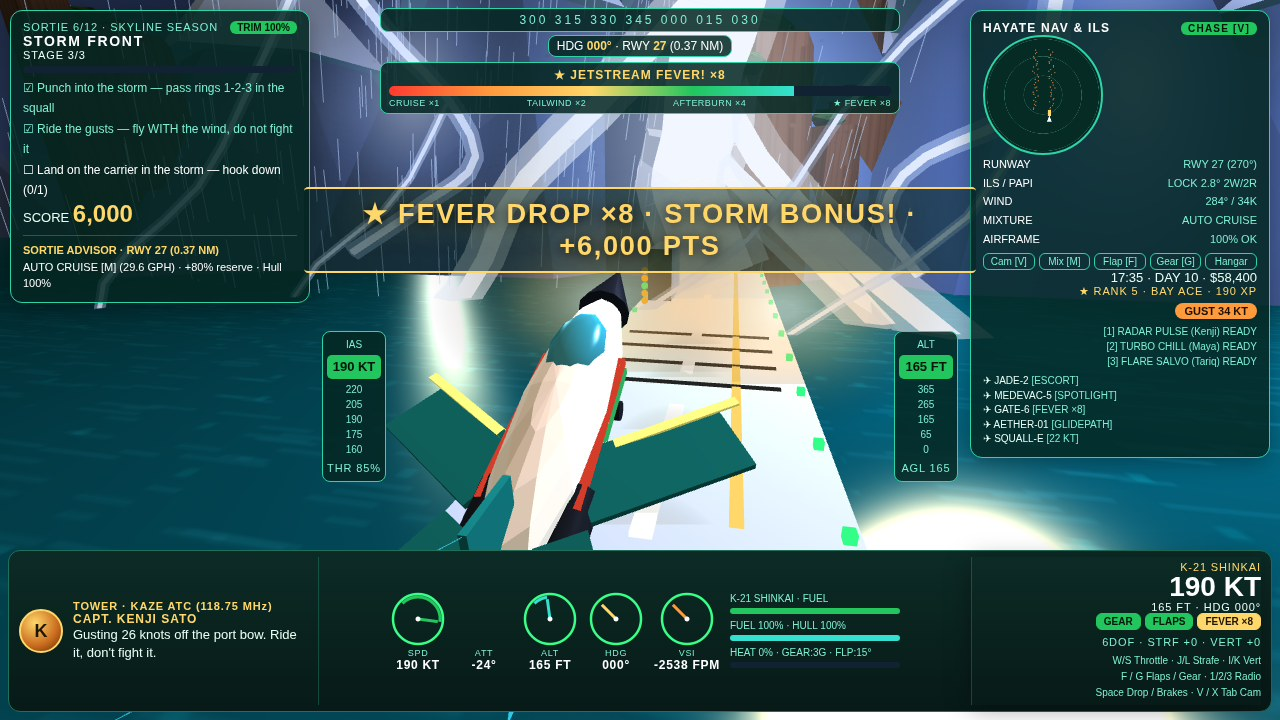
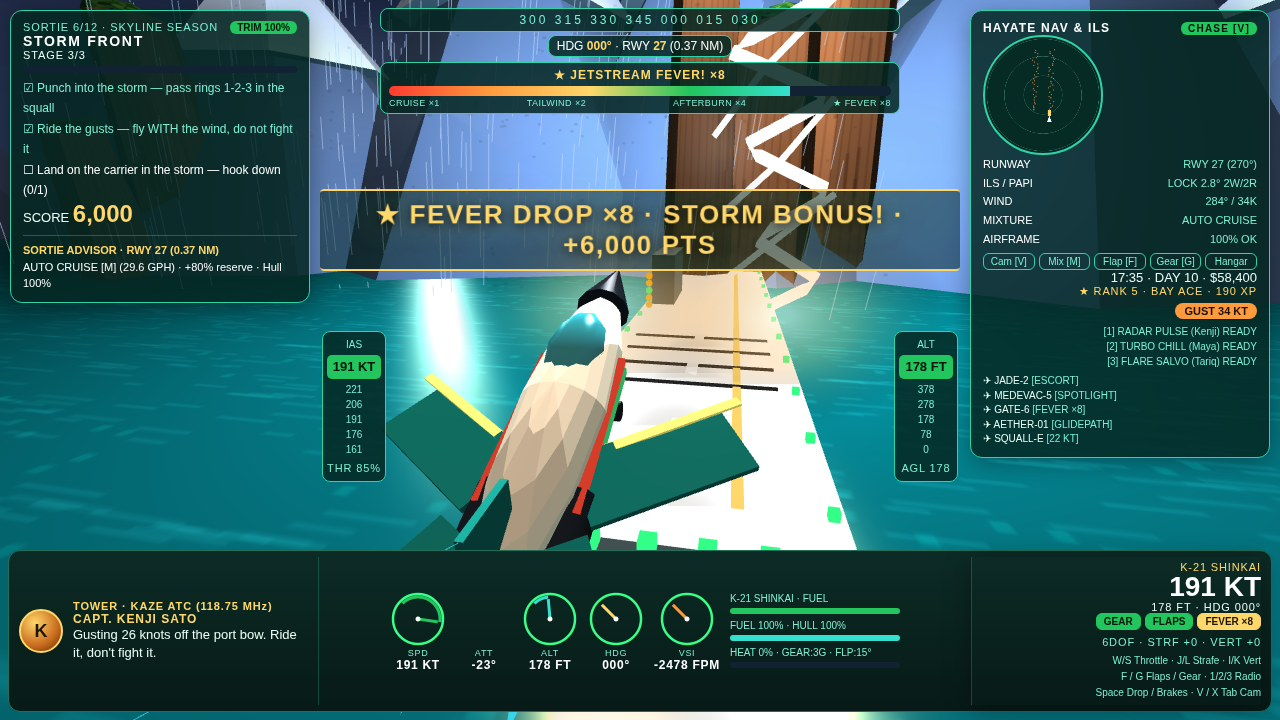
Sharpen hero lightning: thin crisp white zigzag bolt, single bolt, no blob
Hero bolt rebuilt to match the CALDERA storm-landing reference (thin bright-white
line, hard edges, sharp branching zigzag, almost no glow):
- core r18 -> r3, halo tube REMOVED, glow 260x340 @0.45 -> 64x90 @0.16
- Catmull-Rom smoothing replaced with sharp-cornered CurvePath of LineCurve3
  (smoothing is what rounded the zigzag into a soft blob)
- 8 segments with sawtooth walk alternating +/-(30-48), clamped to +/-65 of the
  centreline, so several sharp kinks land in the window between the Fever bar
  and the banner; 3 short forks (2 steps) close to the main bolt
- companions removed from the storm staging: they read as a second competing
  bolt; the reference has ONE bolt + forks
- storm shot framing: 4000ms wait keeps the dark-slate storm sky (a longer
  wait lets the bot descend and the framing drifts onto the pale distant ranges)

New 1-storm.jpg 195,480 B, SCORE 6,000 = banner. Other 3 covers re-verified
and kept (menu retake caught the orbit camera at a worse angle, jet cut at the
right edge). QA: 0 console errors, 6DOF strafe/vertical verified, crash->retry
works, carrier landing +800.

diff --git a/game/src/world.js b/game/src/world.js
@@ -330,41 +330,72 @@ export class World {
     if (this.canyonCapMat) this.canyonCapMat.color.set(mode === 'storm' ? 0x3a4038 : 0xffffff);
     for (const c of (this.clouds || [])) c.material.color.set(p.cloud);
   }
-  // Branching lightning: a THICK 3D bolt (tube, not a 1px line) with a halo tube,
-  // branch bolts, and a big glow sprite — readable in a still, not a faint hairline.
+  // Branching lightning: a bolt is a thin white-hot tube with branch bolts and a
+  // small faint glow sprite — it must read as a CRISP LINE in a still, not a blob.
   // Bolts live in this.bolts[] so several can be held at once (storm cover); each bolt
   // removes itself after 180ms unless holdLightning is set (menu/storm staging).
-  // hero=true: ONE HUGE WHITE-HOT bolt dominating the frame (core r 10, halo r 22,
-  // white-blue halo + white glow, flash 12) — the huge branching white bolt over the
-  // mountains in the CALDERA storm-landing reference. No more purple tubes: the hero
-  // and its companions are all white-hot now.
-  // topY: bolts for stills start low (topY ~300) so the whole zigzag sits inside the frame
+  // hero=true: ONE huge WHITE bolt dominating the frame (thin core r3, NO halo tube,
+  // tiny 64×90 glow at 0.16 opacity) — the thin sharp branching white bolt over the
+  // mountains in the CALDERA storm-landing reference. The previous hero (core r18 +
+  // halo r26 + 260×340 glow, Catmull-Rom smoothed) read as a white flash blob.
+  // topY: bolts for stills start low (topY ~160) so the whole zigzag sits inside the frame
   // instead of towering above it — the live storm still uses the default 520.
   strikeLightning(cx, cz, hero, topY) {
     const group = new T.Group();
     const baseX = (cx !== undefined ? cx : 0) + (Math.random() - 0.5) * (hero ? 20 : 80);
     const baseZ = (cz !== undefined ? cz : -600) + (Math.random() - 0.5) * (hero ? 20 : 80);
     const top = topY !== undefined ? topY : 520;
-    const pts = []; let x = baseX, y = top, z = baseZ;
-    const segs = hero ? 10 : 8, drop = top / segs, jit = hero ? 18 : 90; // hero bolt walks tight on the approach centreline
-    // (±9/step) so it reads as ONE dominant centre bolt; wide jitter made it snake out of frame
-    for (let i = 0; i < segs; i++) { pts.push(new T.Vector3(x, y, z)); x += (Math.random() - 0.5) * jit; y -= drop; z += (Math.random() - 0.5) * (hero ? 16 : 60); }
-    const curve = new T.CatmullRomCurve3(pts);
     const coreMat = new T.MeshBasicMaterial({ color: 0xffffff });
     const haloMat = new T.MeshBasicMaterial({ color: hero ? 0xeaf2ff : 0xbfd4ff, transparent: true, opacity: hero ? 0.6 : 0.5 });
-    const coreR = hero ? 18 : 2, haloR = hero ? 26 : 5; // hero core thick enough to dominate the frame even where the HUD crosses it
-    group.add(new T.Mesh(new T.TubeGeometry(curve, 24, haloR, 5, false), haloMat)); // pale halo tube
-    group.add(new T.Mesh(new T.TubeGeometry(curve, 24, coreR, 5, false), coreMat)); // white-hot core tube
-    for (const bi of (hero ? [1, 3, 5] : [2, 4])) { // branch bolts off the main bolt (hero gets 3, longer ones)
-      const bp = pts[bi]; const bpts = [bp.clone()]; let bx = bp.x, by = bp.y, bz = bp.z;
-      const dir = Math.random() < 0.5 ? -1 : 1;
-      for (let i = 0; i < 4; i++) { bx += dir * (25 + Math.random() * 35); by -= 45; bz += (Math.random() - 0.5) * 40; bpts.push(new T.Vector3(bx, by, bz)); }
-      const bc = new T.CatmullRomCurve3(bpts);
-      group.add(new T.Mesh(new T.TubeGeometry(bc, 10, hero ? 12 : 2.2, 5, false), haloMat));
-      group.add(new T.Mesh(new T.TubeGeometry(bc, 10, hero ? 5 : 0.9, 5, false), coreMat));
+    // Sharp-cornered tube from a polyline (CurvePath of LineCurve3) — Catmull-Rom
+    // smoothed the zigzag into soft curves, which is what made the bolt a blob.
+    const tubeFromPts = (pts, r, mat, tubSegs) => {
+      const path = new T.CurvePath();
+      for (let i = 0; i < pts.length - 1; i++) path.add(new T.LineCurve3(pts[i], pts[i + 1]));
+      return new T.Mesh(new T.TubeGeometry(path, tubSegs, r, 5, false), mat);
+    };
+    if (hero) {
+      // CRISP HERO BOLT (CALDERA reference: thin bright-white line, hard edges, long
+      // sharp zigzag segments + long forks, almost no glow): 8 segments so several
+      // sharp kinks land in the visible window between the Fever bar and the banner,
+      // sawtooth walk alternating ±(30–48) per step, clamped to ±65 of the centreline
+      // so the bolt stays dead-centre in frame; core r3, NO halo tube, tiny faint glow
+      // (see below). (r18 core + r26 halo + 260×340 glow is what turned the last bolt
+      // into a white blob.)
+      const segs = 8, drop = top / segs;
+      const pts = []; let x = baseX, y = top, z = baseZ, dir = Math.random() < 0.5 ? -1 : 1;
+      for (let i = 0; i < segs; i++) {
+        pts.push(new T.Vector3(x, y, z));
+        x += dir * (30 + Math.random() * 18); dir = -dir;
+        if (x > baseX + 65) x = baseX + 65; if (x < baseX - 65) x = baseX - 65;
+        y -= drop; z += (Math.random() - 0.5) * 10;
+      }
+      pts.push(new T.Vector3(x, 0, z));
+      group.add(tubeFromPts(pts, 3, coreMat, 32)); // thin white-hot core, hard edges
+      for (const bi of [1, 3, 5]) { // 3 SHORT forks close to the main bolt (long branches read as separate streaks crossing the frame)
+        const bp = pts[bi]; const bpts = [bp.clone()]; let bx = bp.x, by = bp.y, bz = bp.z;
+        const bdir = Math.random() < 0.5 ? -1 : 1;
+        for (let i = 0; i < 2; i++) { bx += bdir * (20 + Math.random() * 12); by -= 22 + Math.random() * 8; bz += (Math.random() - 0.5) * 12; bpts.push(new T.Vector3(bx, by, bz)); }
+        group.add(tubeFromPts(bpts, 1.6, coreMat, 12));
+      }
+    } else {
+      const pts = []; let x = baseX, y = top, z = baseZ;
+      const segs = 8, drop = top / segs, jit = 90;
+      for (let i = 0; i < segs; i++) { pts.push(new T.Vector3(x, y, z)); x += (Math.random() - 0.5) * jit; y -= drop; z += (Math.random() - 0.5) * 60; }
+      const curve = new T.CatmullRomCurve3(pts);
+      group.add(new T.Mesh(new T.TubeGeometry(curve, 24, 5, 5, false), haloMat)); // pale halo tube
+      group.add(new T.Mesh(new T.TubeGeometry(curve, 24, 2, 5, false), coreMat)); // white-hot core tube
+      for (const bi of [2, 4]) { // branch bolts off the main bolt
+        const bp = pts[bi]; const bpts = [bp.clone()]; let bx = bp.x, by = bp.y, bz = bp.z;
+        const dir = Math.random() < 0.5 ? -1 : 1;
+        for (let i = 0; i < 4; i++) { bx += dir * (25 + Math.random() * 35); by -= 45; bz += (Math.random() - 0.5) * 40; bpts.push(new T.Vector3(bx, by, bz)); }
+        const bc = new T.CatmullRomCurve3(bpts);
+        group.add(new T.Mesh(new T.TubeGeometry(bc, 10, 2.2, 5, false), haloMat));
+        group.add(new T.Mesh(new T.TubeGeometry(bc, 10, 0.9, 5, false), coreMat));
+      }
     }
-    const glow = new T.Sprite(new T.SpriteMaterial({ map: glowTexture(hero ? 'rgba(255,255,255,1)' : 'rgba(220,230,255,.9)', hero ? 'rgba(190,215,255,.55)' : 'rgba(150,180,255,.45)'), transparent: true, depthWrite: false, opacity: hero ? 0.45 : 0.5 }));
-    glow.scale.set(hero ? 260 : 120, hero ? 340 : 180, 1); glow.position.set(baseX, top / 2, baseZ); group.add(glow); // centred on the bolt axis, not the walk's random end point
+    const glow = new T.Sprite(new T.SpriteMaterial({ map: glowTexture(hero ? 'rgba(255,255,255,1)' : 'rgba(220,230,255,.9)', hero ? 'rgba(190,215,255,.55)' : 'rgba(150,180,255,.45)'), transparent: true, depthWrite: false, opacity: hero ? 0.16 : 0.2 }));
+    glow.scale.set(hero ? 64 : 48, hero ? 90 : 72, 1); glow.position.set(baseX, top / 2, baseZ); group.add(glow); // tight faint halo only — the big 260×340 glow washed the whole bolt into a blob
     this.scene.add(group);
     this.bolts.push(group); this.lightning = group; // latest bolt, for callers that reference it
     this.flashLight.color.set(hero ? 0xffffff : 0xccccff);

diff --git a/game/src/main.js b/game/src/main.js
@@ -1093,9 +1093,7 @@ function setupShot(shot) {
       // and SHORT (topY 160) so the whole bolt fits inside the chase camera's frame (its top was above the
       // frame at topY 300). Chase camera pulled in (12 vs 16) so the jet reads bigger on final.
       S.chaseDist = 12;
-      world.strikeLightning(180, 560, true, 160);
-      world.strikeLightning(60, 560, false, 200);
-      world.strikeLightning(330, 560, false, 180);
+      world.strikeLightning(180, 560, true, 160); // ONE hero bolt only — companions read as a second competing bolt and broke the reference's single-bolt look
       S.dialogueQueue = [{ name: 'Capt. Kenji Sato', text: RADIO.kenji[3] }]; S.dlgTimer = 0;
       S.lightningTimer = 30; // pause the live storm timer so no extra bolts pile up during the still
     }
